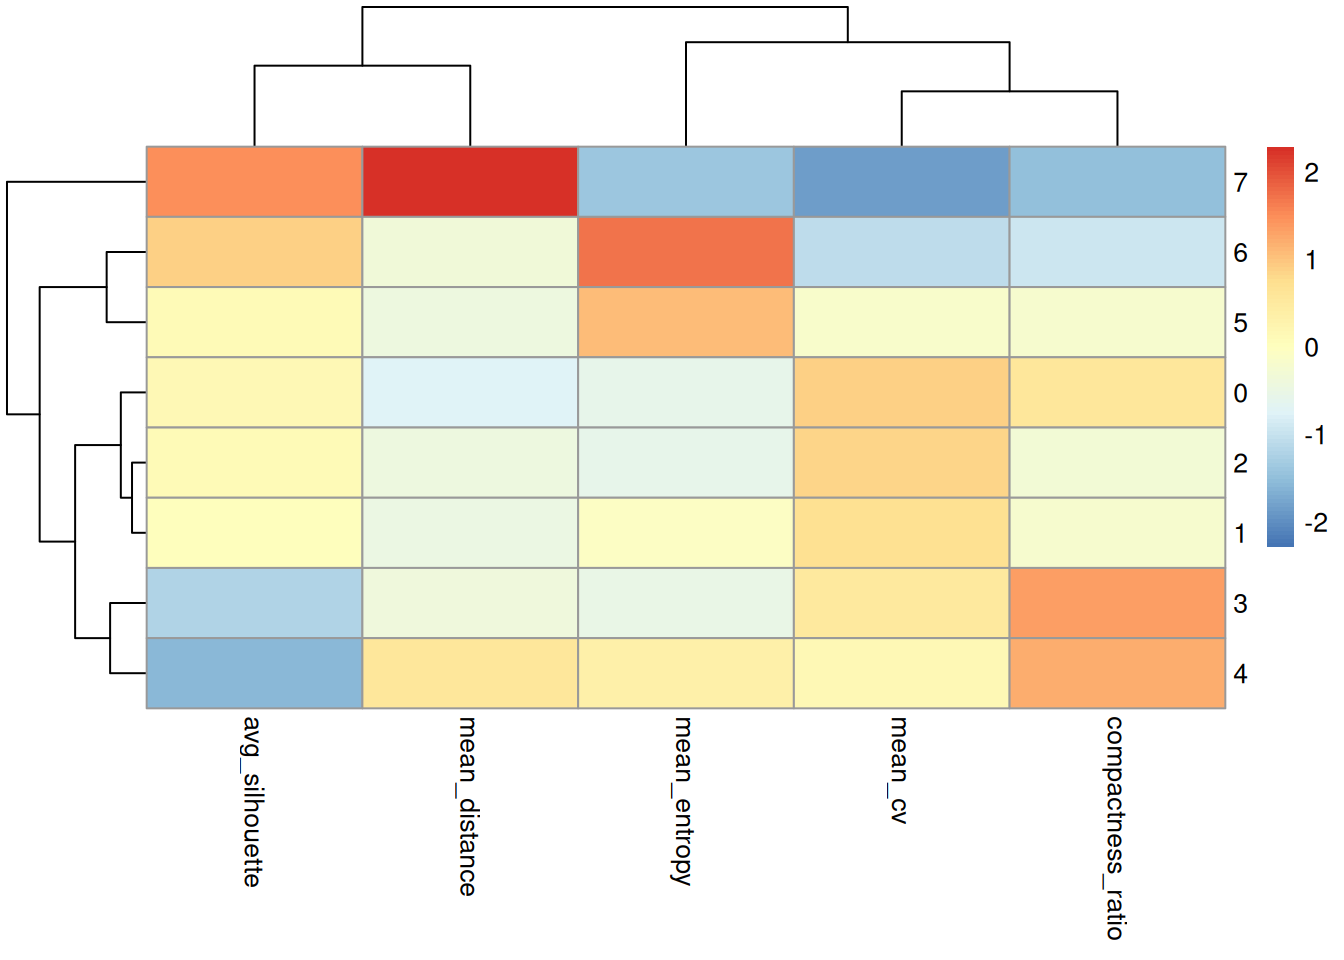
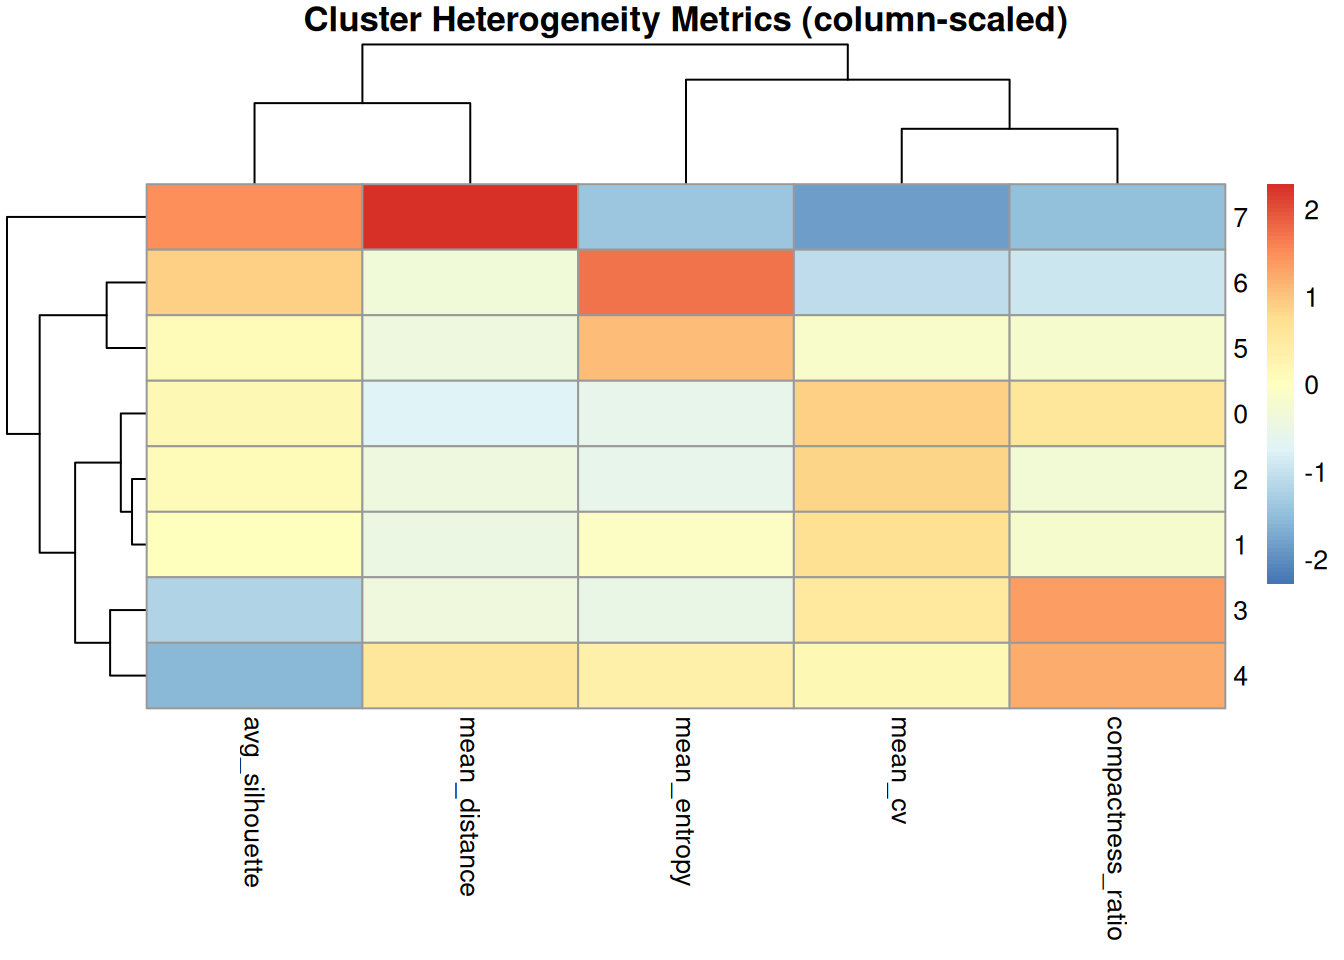
Build site.

diff --git a/docs/scrnaseq_clusters.html b/docs/scrnaseq_clusters.html
@@ -10,7 +10,7 @@
 
 
 
-<meta name="date" content="2026-01-19" />
+<meta name="date" content="2026-02-02" />
 
 <title>scRNA-seq clusters</title>
 
@@ -359,7 +359,7 @@ div.tocify {
 
 
 <h1 class="title toc-ignore">scRNA-seq clusters</h1>
-<h4 class="date">2026-01-19</h4>
+<h4 class="date">2026-02-02</h4>
 
 </div>
 
@@ -388,7 +388,7 @@ class="glyphicon glyphicon-ok text-success" aria-hidden="true"></span>
 <div class="tab-content">
 <div id="summary" class="tab-pane fade in active">
 <p>
-<strong>Last updated:</strong> 2026-01-19
+<strong>Last updated:</strong> 2026-02-02
 </p>
 <p>
 <strong>Checks:</strong> <span
@@ -519,15 +519,15 @@ project makes it easier to run your code on other machines.</p>
 <div class="panel panel-default">
 <div class="panel-heading">
 <p class="panel-title">
-<a data-toggle="collapse" data-parent="#workflowr-checks" href="#strongRepositoryversionstrongahrefhttpsgithubcomdavetangmusetree6eb5b10d71051e435dd8b8b830d6e8cc628cbe8ftargetblank6eb5b10a">
+<a data-toggle="collapse" data-parent="#workflowr-checks" href="#strongRepositoryversionstrongahrefhttpsgithubcomdavetangmusetreed6c0747ddb6250ea109252f4818174572059e808targetblankd6c0747a">
 <span class="glyphicon glyphicon-ok text-success"
 aria-hidden="true"></span> <strong>Repository version:</strong>
-<a href="https://github.com/davetang/muse/tree/6eb5b10d71051e435dd8b8b830d6e8cc628cbe8f" target="_blank">6eb5b10</a>
+<a href="https://github.com/davetang/muse/tree/d6c0747ddb6250ea109252f4818174572059e808" target="_blank">d6c0747</a>
 </a>
 </p>
 </div>
 <div
[2 lines of base64/hex data omitted]
 class="panel-collapse collapse">
 <div class="panel-body">
 <p>
@@ -537,7 +537,7 @@ reproducibility.
 </p>
 <p>
 The results in this page were generated with repository version
-<a href="https://github.com/davetang/muse/tree/6eb5b10d71051e435dd8b8b830d6e8cc628cbe8f" target="_blank">6eb5b10</a>.
+<a href="https://github.com/davetang/muse/tree/d6c0747ddb6250ea109252f4818174572059e808" target="_blank">d6c0747</a>.
 See the <em>Past versions</em> tab to see a history of the changes made
 to the R Markdown and HTML files.
 </p>
@@ -590,8 +590,11 @@ Ignored files:
     Ignored:    r_packages_4.5.0/
 
 Untracked files:
+    Untracked:  .claude/
+    Untracked:  CLAUDE.md
     Untracked:  analysis/bioc.Rmd
     Untracked:  analysis/bioc_scrnaseq.Rmd
+    Untracked:  analysis/chick_weight.Rmd
     Untracked:  analysis/likelihood.Rmd
     Untracked:  bpcells_matrix/
     Untracked:  data/Caenorhabditis_elegans.WBcel235.113.gtf.gz
@@ -604,8 +607,8 @@ Untracked files:
     Untracked:  women.json
 
 Unstaged changes:
-    Modified:   analysis/icc.Rmd
     Modified:   analysis/isoform_switch_analyzer.Rmd
+    Modified:   analysis/linear_models.Rmd
 
 </code></pre>
 <p>
@@ -650,6 +653,40 @@ Message
 </tr>
 </thead>
 <tbody>
+<tr>
+<td>
+Rmd
+</td>
+<td>
+<a href="https://github.com/davetang/muse/blob/d6c0747ddb6250ea109252f4818174572059e808/analysis/scrnaseq_clusters.Rmd" target="_blank">d6c0747</a>
+</td>
+<td>
+Dave Tang
+</td>
+<td>
+2026-02-02
+</td>
+<td>
+Correlation between metrics
+</td>
+</tr>
+<tr>
+<td>
+html
+</td>
+<td>
+<a href="https://rawcdn.githack.com/davetang/muse/716564829892853477f1e7be65fe323584340b89/docs/scrnaseq_clusters.html" target="_blank">7165648</a>
+</td>
+<td>
+Dave Tang
+</td>
+<td>
+2026-01-19
+</td>
+<td>
+Build site.
+</td>
+</tr>
 <tr>
 <td>
 Rmd
@@ -812,7 +849,7 @@ Evaluating scRNA-seq clusters
 </div>
 <div id="introduction" class="section level2">
 <h2>Introduction</h2>
-<p>Access the heterogeneity in scRNA-seq clusters where heterogeneity
+<p>Assess the heterogeneity in scRNA-seq clusters where heterogeneity
 refers to how variable or diverse cells are within a given cluster. High
 heterogeneity means cells in that cluster are quite different from each
 other, while low heterogeneity means they’re very similar.</p>
@@ -910,12 +947,18 @@ head(sil_scores)</code></pre>
 [4,]       6        2 -0.00517726
 [5,]       5        4 -0.06343489
 [6,]       1        4  0.28198441</code></pre>
-<p>Calculate average silhouette width per cluster.</p>
-<pre class="r"><code>sil_scores |&gt;
+<p>Calculate average silhouette width per cluster. Note:
+<code>silhouette()</code> uses numeric cluster codes (1, 2, 3, …)
+internally, which correspond to factor levels. Since Seurat clusters are
+0-indexed (0, 1, 2, …), we need to map back to the original labels.</p>
+<pre class="r"><code># Get the mapping from numeric codes to original cluster labels
+cluster_levels &lt;- levels(clusters)
+
+sil_scores |&gt;
   as.data.frame() |&gt;
   dplyr::summarise(avg_silhouette = mean(sil_width), .by = &#39;cluster&#39;) |&gt;
   dplyr::arrange(-avg_silhouette) |&gt;
-  dplyr::mutate(cluster = as.factor(cluster-1)) -&gt; sil_summary
+  dplyr::mutate(cluster = factor(cluster_levels[cluster], levels = cluster_levels)) -&gt; sil_summary
 
 sil_summary |&gt; dplyr::arrange(-avg_silhouette)</code></pre>
 <pre><code>  cluster avg_silhouette
@@ -1181,8 +1224,12 @@ together (low heterogeneity)</li>
 heterogeneity)</li>
 </ul></li>
 <li><p><strong>Why it matters:</strong> This gives you a spatial sense
-of cluster compactness. We calculate this in both PCA (captures
-biological variance) and UMAP (optimized for visualization).</p></li>
+of cluster compactness. We calculate this in PCA space because PCA
+preserves meaningful distances (Euclidean distances relate to expression
+differences). UMAP distances are <strong>not</strong> meaningful for
+quantitative comparisons because UMAP distorts distances to optimise for
+visualisation - nearby points in UMAP may not be truly similar, and
+distant points may not be truly different.</p></li>
 </ul>
 <pre class="r"><code># Function to calculate intra-cluster distances
 calc_intra_cluster_dist &lt;- function(embeddings, labels) {
@@ -1290,14 +1337,20 @@ useful for identifying transitional or stressed cell
 populations.</p></li>
 </ul>
 <pre class="r"><code>shannon_entropy &lt;- function(x) {
+  # Handle edge case: if all values are identical, entropy is 0
+  if (length(unique(x)) == 1 || (max(x) - min(x)) &lt; 1e-10) {
+    return(0)
+  }
+
+
   # Bin expression values into 10 bins
   breaks &lt;- seq(min(x), max(x), length.out = 11)
   hist_data &lt;- hist(x, breaks = breaks, plot = FALSE)
-  
+
   # Calculate probability of each bin
   probs &lt;- hist_data$counts / sum(hist_data$counts)
   probs &lt;- probs[probs &gt; 0]  # Remove zeros to avoid log(0)
-  
+
   # Shannon entropy formula: -sum(p * log2(p))
   return(-sum(probs * log2(probs)))
 }
@@ -1565,10 +1618,57 @@ summary_comparison</code></pre>
 7       3     0.05981687 3.505332      13.44704    0.4712475         1.2704459
 8       4     0.01407852 3.124803      20.08154    0.6069528         1.2348315</code></pre>
 <p>As a heatmap.</p>
+<p><strong>Important:</strong> The metrics have different
+directions:</p>
+<table>
+<colgroup>
+<col width="18%" />
+<col width="41%" />
+<col width="39%" />
+</colgroup>
+<thead>
+<tr class="header">
+<th>Metric</th>
+<th>High value means</th>
+<th>Low value means</th>
+</tr>
+</thead>
+<tbody>
+<tr class="odd">
+<td><code>avg_silhouette</code></td>
+<td>Good separation, low heterogeneity</td>
+<td>Poor separation, high heterogeneity</td>
+</tr>
+<tr class="even">
+<td><code>mean_cv</code></td>
+<td>High heterogeneity</td>
+<td>Low heterogeneity</td>
+</tr>
+<tr class="odd">
+<td><code>mean_distance</code></td>
+<td>High heterogeneity (spread out)</td>
+<td>Low heterogeneity (compact)</td>
+</tr>
+<tr class="even">
+<td><code>mean_entropy</code></td>
+<td>High heterogeneity</td>
+<td>Low heterogeneity</td>
+</tr>
+<tr class="odd">
+<td><code>compactness_ratio</code></td>
+<td>Poor compactness, high heterogeneity</td>
+<td>Good compactness, low heterogeneity</td>
+</tr>
+</tbody>
+</table>
+<p>So <code>avg_silhouette</code> is the only metric where higher =
+better/more homogeneous. For all others, higher = more
+heterogeneous.</p>
 <pre class="r"><code>summary_comparison |&gt;
   tibble::column_to_rownames(&#39;cluster&#39;) |&gt;
   as.matrix() |&gt;
-  pheatmap(scale = &quot;column&quot;)</code></pre>
+  pheatmap(scale = &quot;column&quot;,
+           main = &quot;Cluster Heterogeneity Metrics (column-scaled)&quot;)</code></pre>
 <p><img src="figure/scrnaseq_clusters.Rmd/summary_heatmap-1.png" width="672" style="display: block; margin: auto;" /></p>
 <p>
 <button type="button" class="btn btn-default btn-xs btn-workflowr btn-workflowr-fig" data-toggle="collapse" data-target="#fig-summary_heatmap-1">
@@ -1607,6 +1707,36 @@ Dave Tang
 </table>
 </div>
 </div>
+<p>To make comparison easier, we can invert silhouette so all metrics
+point in the same direction (higher = more heterogeneous):</p>
+<pre class="r"><code>summary_inverted &lt;- summary_comparison |&gt;
+  dplyr::mutate(
+    neg_silhouette = -avg_silhouette  # Invert so higher = worse
+  ) |&gt;
+  dplyr::select(cluster, neg_silhouette, mean_cv, mean_distance, mean_entropy, compactness_ratio)
+
+summary_inverted |&gt;
+  tibble::column_to_rownames(&#39;cluster&#39;) |&gt;
+  as.matrix() |&gt;
+  pheatmap(scale = &quot;column&quot;,
+           main = &quot;Cluster Heterogeneity (all metrics: higher = more heterogeneous)&quot;)</code></pre>
+<p><img src="figure/scrnaseq_clusters.Rmd/summary_heatmap_inverted-1.png" width="672" style="display: block; margin: auto;" /></p>
+</div>
+<div id="correlation-between-metrics" class="section level2">
+<h2>Correlation Between Metrics</h2>
+<p>It’s useful to see how these metrics relate to each other:</p>
+<pre class="r"><code>cor_matrix &lt;- summary_comparison |&gt;
+  tibble::column_to_rownames(&#39;cluster&#39;) |&gt;
+  cor(method = &quot;spearman&quot;)
+
+pheatmap(cor_matrix,
+         display_numbers = TRUE,
+         number_format = &quot;%.2f&quot;,
+         main = &quot;Spearman Correlation Between Metrics&quot;)</code></pre>
+<p><img src="figure/scrnaseq_clusters.Rmd/metric_correlation-1.png" width="672" style="display: block; margin: auto;" /></p>
+<p>Metrics that are highly correlated capture similar aspects of
+heterogeneity. Metrics with low correlation provide complementary
+information.</p>
 </div>
 <div id="interpretation-guide" class="section level2">
 <h2>Interpretation Guide</h2>
@@ -1665,6 +1795,77 @@ quality</li>
 <li>Higher = more heterogeneous</li>
 </ul></li>
 </ul>
+</div>
+<div id="biological-interpretation" class="section level2">
+<h2>Biological Interpretation</h2>
+<p>High heterogeneity in a cluster may indicate:</p>
+<ol style="list-style-type: decimal">
+<li><strong>Transitional cell states</strong>: Cells in the process of
+differentiating often show high variability as they transition between
+stable states</li>
+<li><strong>Cell cycle effects</strong>: Proliferating cells may cluster
+together but show heterogeneity due to different cell cycle phases</li>
+<li><strong>Technical artifacts</strong>: Batch effects, doublets, or
+low-quality cells can artificially increase heterogeneity</li>
+<li><strong>Over-clustering</strong>: A single biological population
+split into multiple clusters will appear heterogeneous</li>
+<li><strong>Under-clustering</strong>: Multiple distinct populations
+merged into one cluster</li>
+<li><strong>Activation states</strong>: Immune cells responding to
+stimuli may show high heterogeneity within the same cell type</li>
+</ol>
+<p>Low heterogeneity typically indicates:</p>
+<ol style="list-style-type: decimal">
+<li><strong>Well-defined cell types</strong>: Terminally differentiated
+cells with stable transcriptional programs</li>
+<li><strong>Technical over-clustering</strong>: The clustering algorithm
+may have split a homogeneous population</li>
+<li><strong>Small cluster size</strong>: Be cautious interpreting
+metrics for clusters with very few cells</li>
+</ol>
+</div>
+<div id="caveats-and-limitations" class="section level2">
+<h2>Caveats and Limitations</h2>
+<ol style="list-style-type: decimal">
+<li><p><strong>Cluster size affects metrics</strong>: Larger clusters
+tend to have higher within-cluster distances simply due to having more
+cells. Consider normalising or using size-matched comparisons.</p></li>
+<li><p><strong>Gene selection matters</strong>: We calculated CV and
+entropy on variable genes. Using all genes or marker genes may give
+different results.</p></li>
+<li><p><strong>Dimensionality</strong>: PCA-based metrics depend on the
+number of PCs used. We used 30 PCs, but this choice affects the
+results.</p></li>
+<li><p><strong>Resolution dependency</strong>: These metrics depend on
+clustering resolution. Different resolutions will give different
+heterogeneity patterns.</p></li>
+<li><p><strong>Biological vs technical heterogeneity</strong>: These
+metrics cannot distinguish biological heterogeneity (interesting) from
+technical noise (not interesting).</p></li>
+</ol>
+<pre class="r"><code># Check if metrics correlate with cluster size
+cluster_sizes &lt;- table(clusters)
+size_df &lt;- data.frame(
+  cluster = names(cluster_sizes),
+  n_cells = as.numeric(cluster_sizes)
+)
+
+summary_with_size &lt;- summary_comparison |&gt;
+  dplyr::left_join(size_df, by = &quot;cluster&quot;)
+
+cat(&quot;Correlation of metrics with cluster size:\n&quot;)</code></pre>
+<pre><code>Correlation of metrics with cluster size:</code></pre>
+<pre class="r"><code>cat(&quot;  mean_distance vs n_cells:&quot;,
+    round(cor(summary_with_size$mean_distance, summary_with_size$n_cells, method = &quot;spearman&quot;), 3), &quot;\n&quot;)</code></pre>
+<pre><code>  mean_distance vs n_cells: -0.881 </code></pre>
+<pre class="r"><code>cat(&quot;  mean_cv vs n_cells:&quot;,
+    round(cor(summary_with_size$mean_cv, summary_with_size$n_cells, method = &quot;spearman&quot;), 3), &quot;\n&quot;)</code></pre>
+<pre><code>  mean_cv vs n_cells: 0.976 </code></pre>
+<pre class="r"><code>cat(&quot;  avg_silhouette vs n_cells:&quot;,
+    round(cor(summary_with_size$avg_silhouette, summary_with_size$n_cells, method = &quot;spearman&quot;), 3), &quot;\n&quot;)</code></pre>
+<pre><code>  avg_silhouette vs n_cells: -0.357 </code></pre>
+<p>If metrics strongly correlate with cluster size, interpret with
+caution.</p>
 <br>
 <p>
 <button type="button" class="btn btn-default btn-workflowr btn-workflowr-sessioninfo" data-toggle="collapse" data-target="#workflowr-sessioninfo" style="display: block;">
